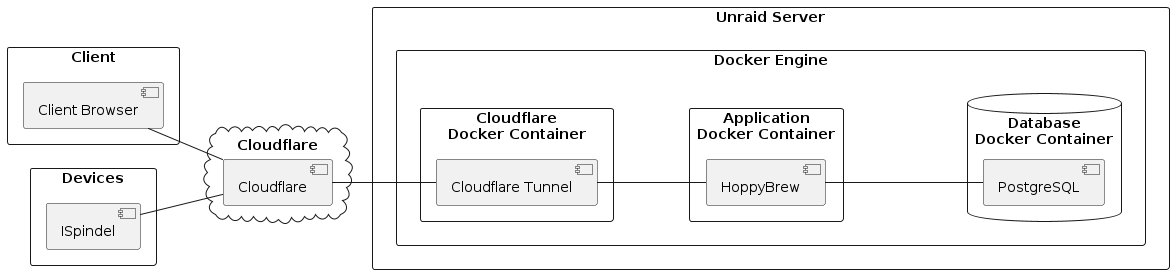
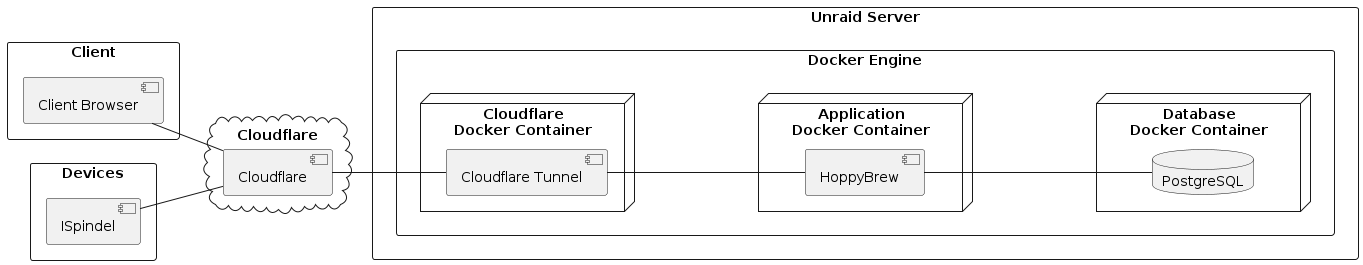
Update

diff --git a/documents/01-Conception-Phase/00-HoppyBrew.md b/documents/01-Conception-Phase/00-HoppyBrew.md
@@ -585,16 +585,16 @@ cloud "Cloudflare" {
 rectangle "Unraid Server" {
     rectangle "Docker Engine" {
 
-        rectangle "Cloudflare\nDocker Container" {
+        node "Cloudflare\nDocker Container" {
             component "Cloudflare Tunnel" as cloudflareTunnel
         }
 
-        rectangle "Application\nDocker Container" {
+        node "Application\nDocker Container" {
             component "HoppyBrew" as hoppybrew
         }
 
-        database "Database\nDocker Container" {
-            component "PostgreSQL" as postgres
+        node "Database\nDocker Container" {
+            database "PostgreSQL" as postgres
         }
     }
 }

diff --git a/documents/01-Conception-Phase/chapters/05_Building_Block_View.md b/documents/01-Conception-Phase/chapters/05_Building_Block_View.md
@@ -135,16 +135,16 @@ cloud "Cloudflare" {
 rectangle "Unraid Server" {
     rectangle "Docker Engine" {
 
-        rectangle "Cloudflare\nDocker Container" {
+        node "Cloudflare\nDocker Container" {
             component "Cloudflare Tunnel" as cloudflareTunnel
         }
 
-        rectangle "Application\nDocker Container" {
+        node "Application\nDocker Container" {
             component "HoppyBrew" as hoppybrew
         }
 
-        database "Database\nDocker Container" {
-            component "PostgreSQL" as postgres
+        node "Database\nDocker Container" {
+            database "PostgreSQL" as postgres
         }
     }
 }
